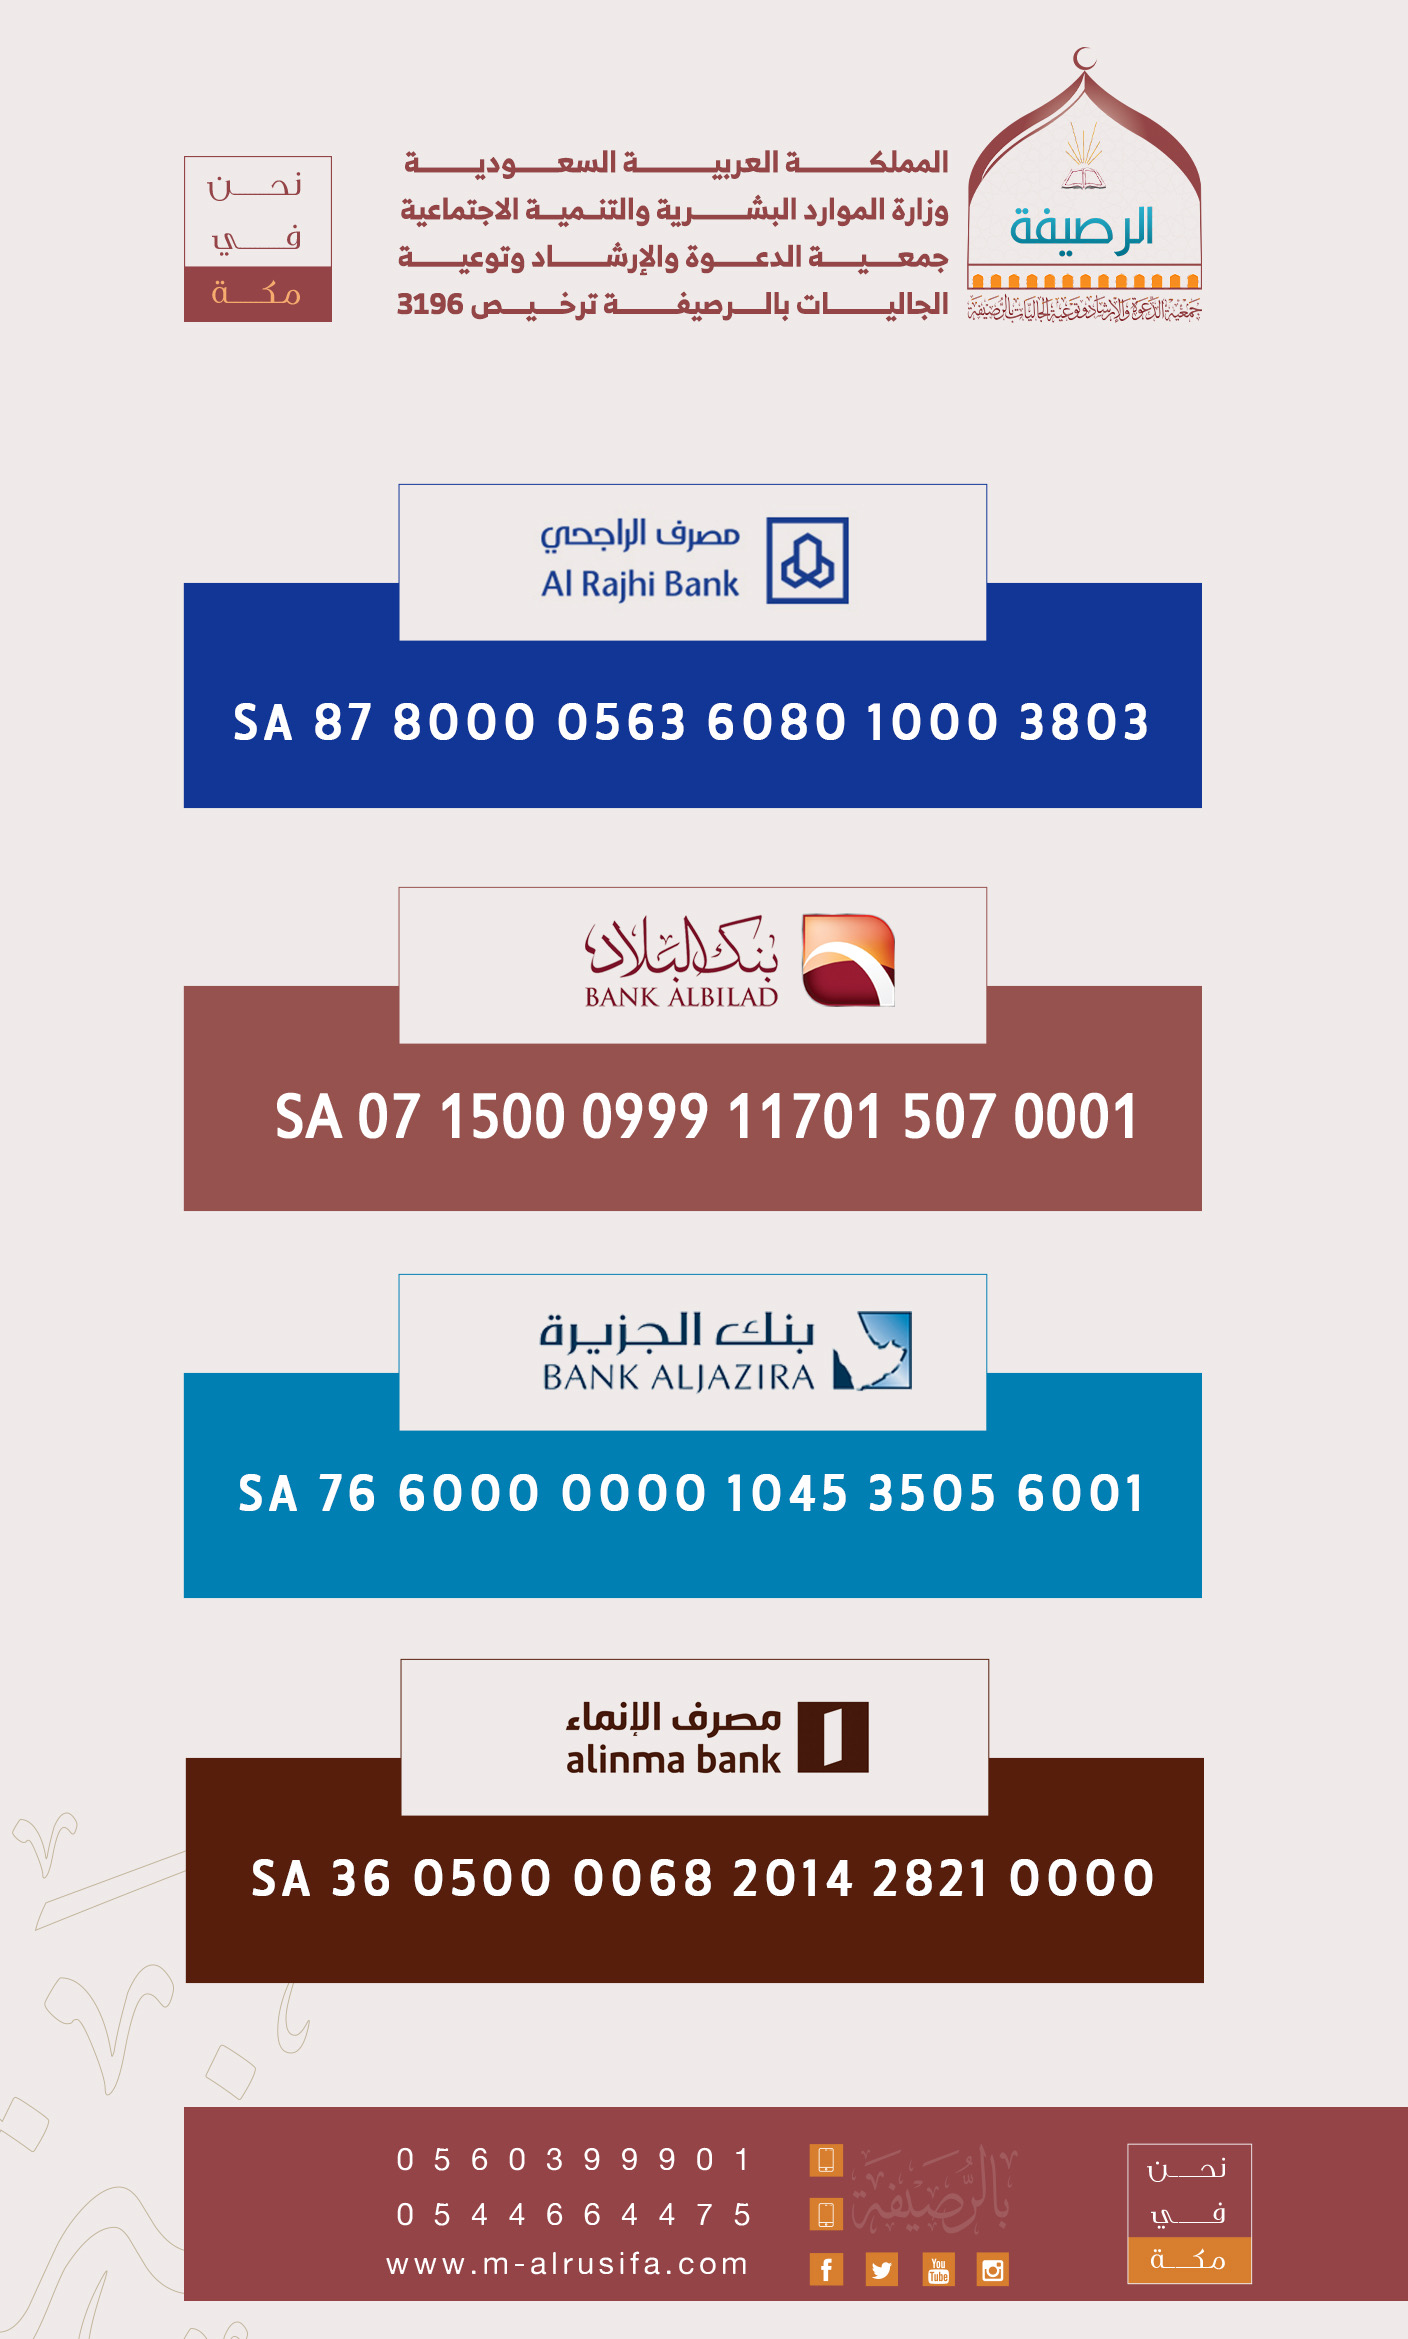
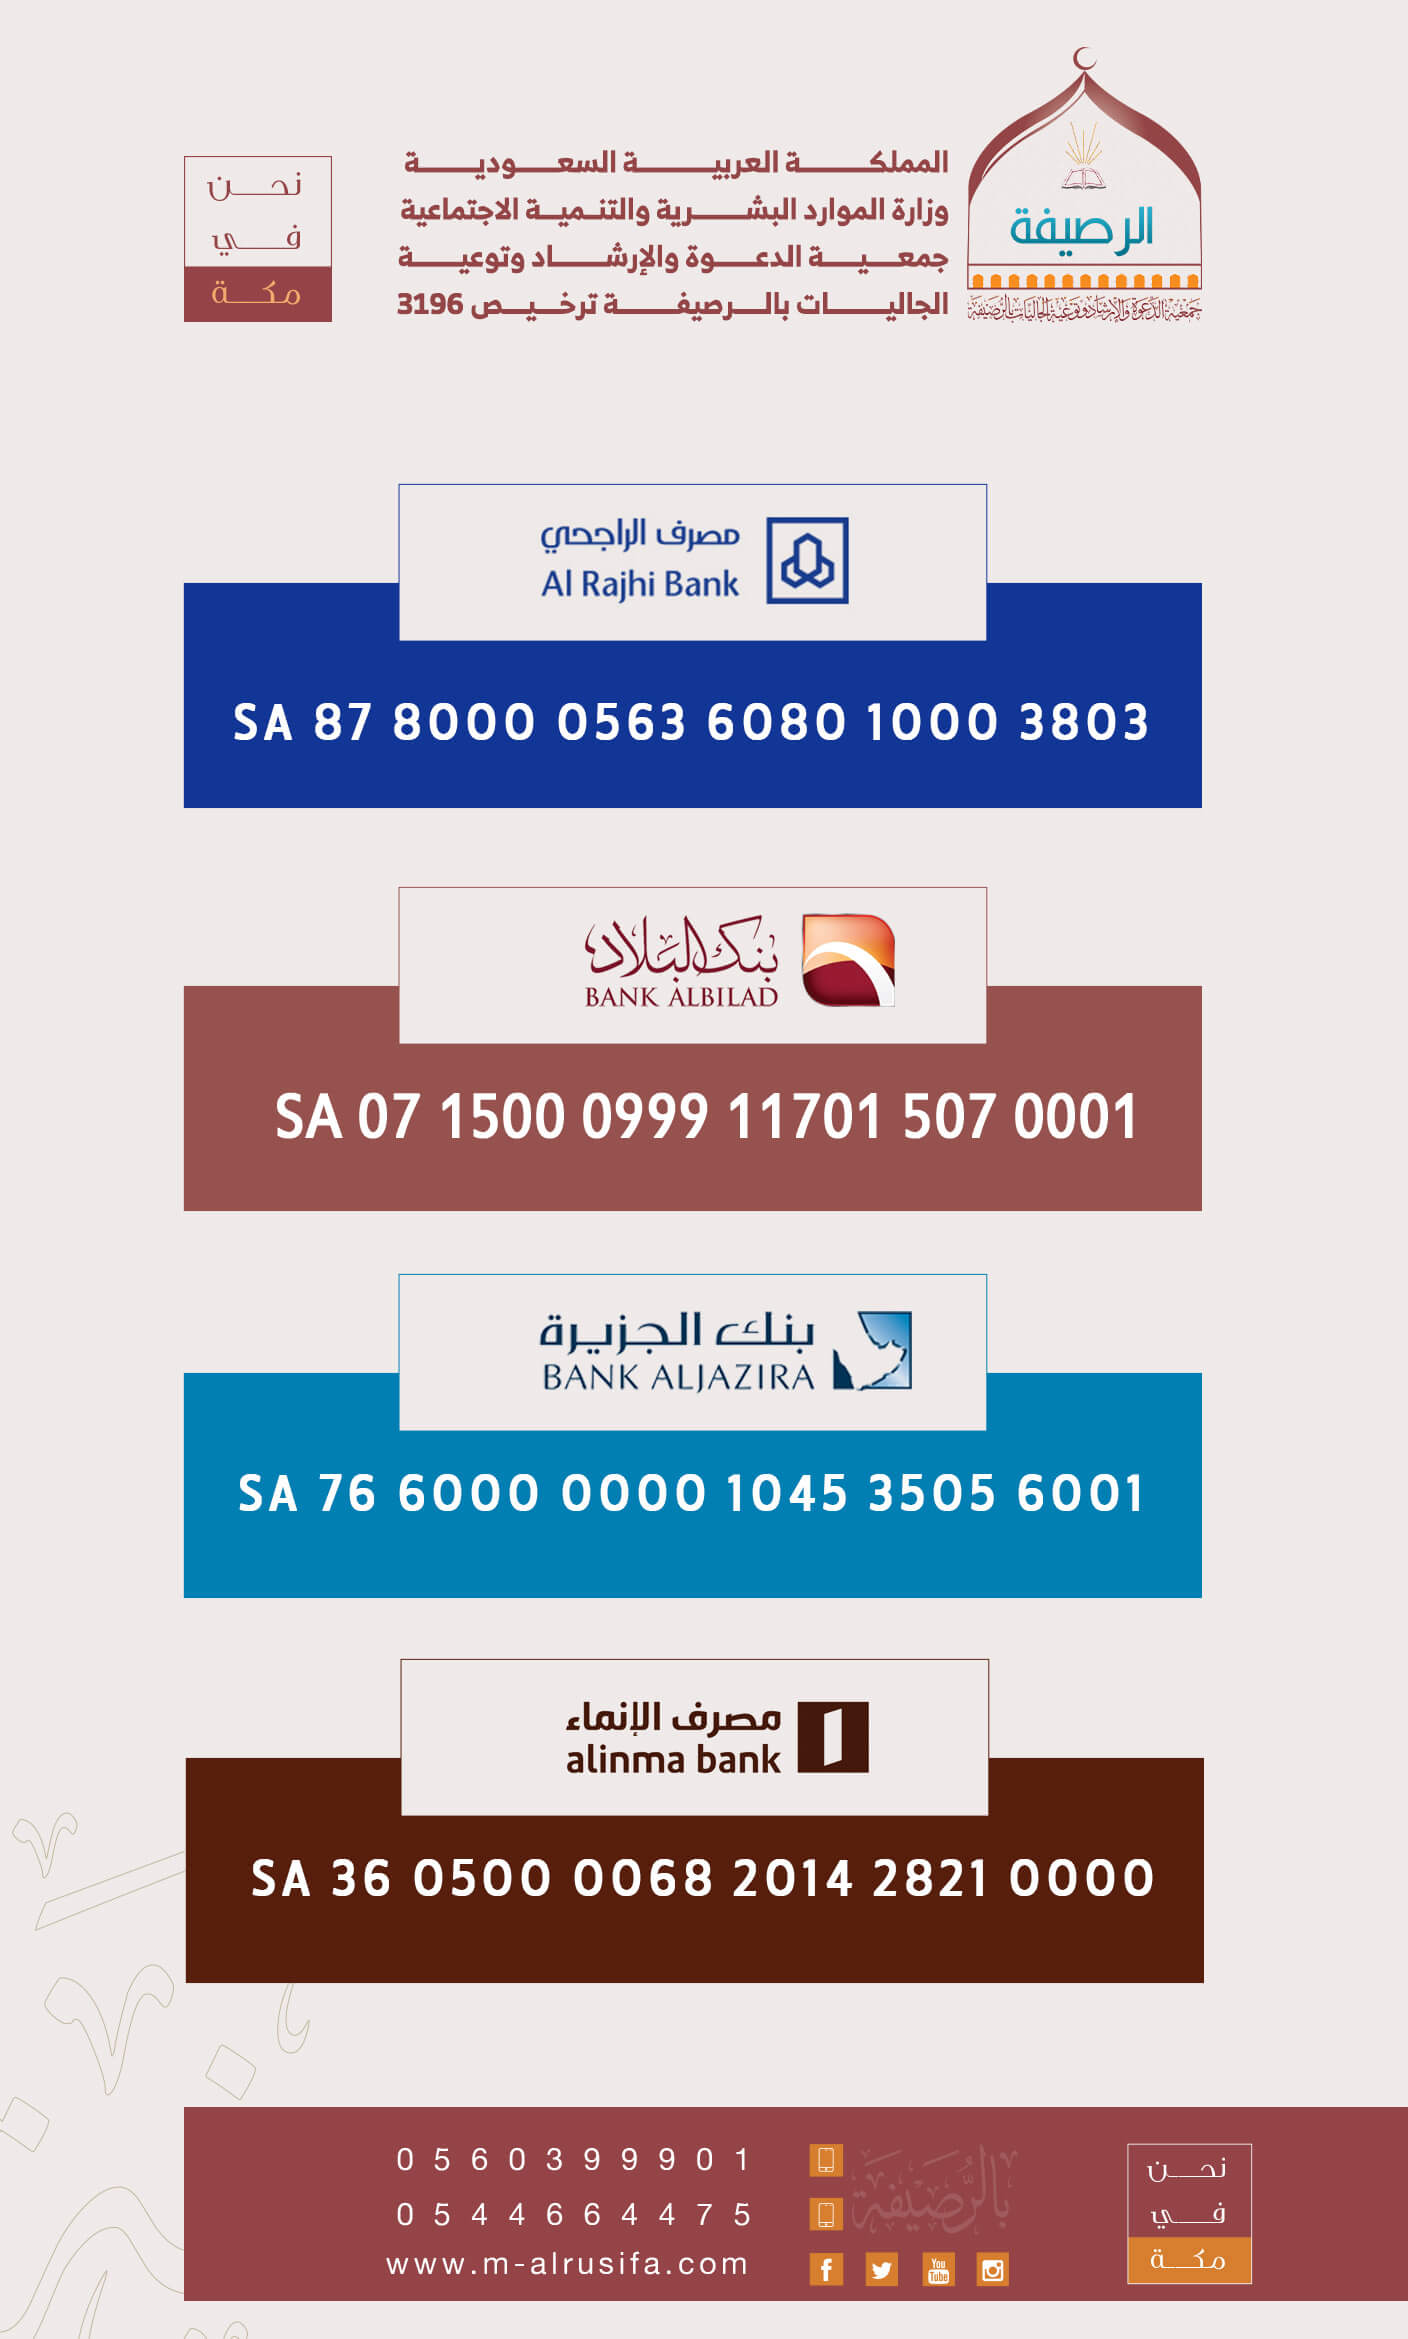
hamed

Changed region(s): [[0.7188, 0.0936, 0.8125, 0.156]]

diff --git a/من-نحن.html b/من-نحن.html
@@ -48,7 +48,7 @@
     </nav>
     <!--start content-->
     <section>
-      <img src="assets/images/Artboard 2_page-0001.jpg" alt="" class="col-12 rounded mx-auto d-block" id="mn-nhn" />
+      <img src="assets/images/Artboard 2_page-0001 (1).jpg" alt="" class="col-12 rounded mx-auto d-block" id="mn-nhn" />
     </section>
 
     <section id="slidimgmn">
@@ -116,7 +116,7 @@
       </div>
     </section>
     <section>
-      <img src="assets/images/Artboard 1_page-0001.jpg" alt="" class="col-12 rounded mx-auto d-block" id="mn-nhn" />
+      <img src="assets/images/Artboard 1_page-0001 (1).jpg" alt="" class="col-12 rounded mx-auto d-block" id="mn-nhn" />
     </section>
 
     <section>
